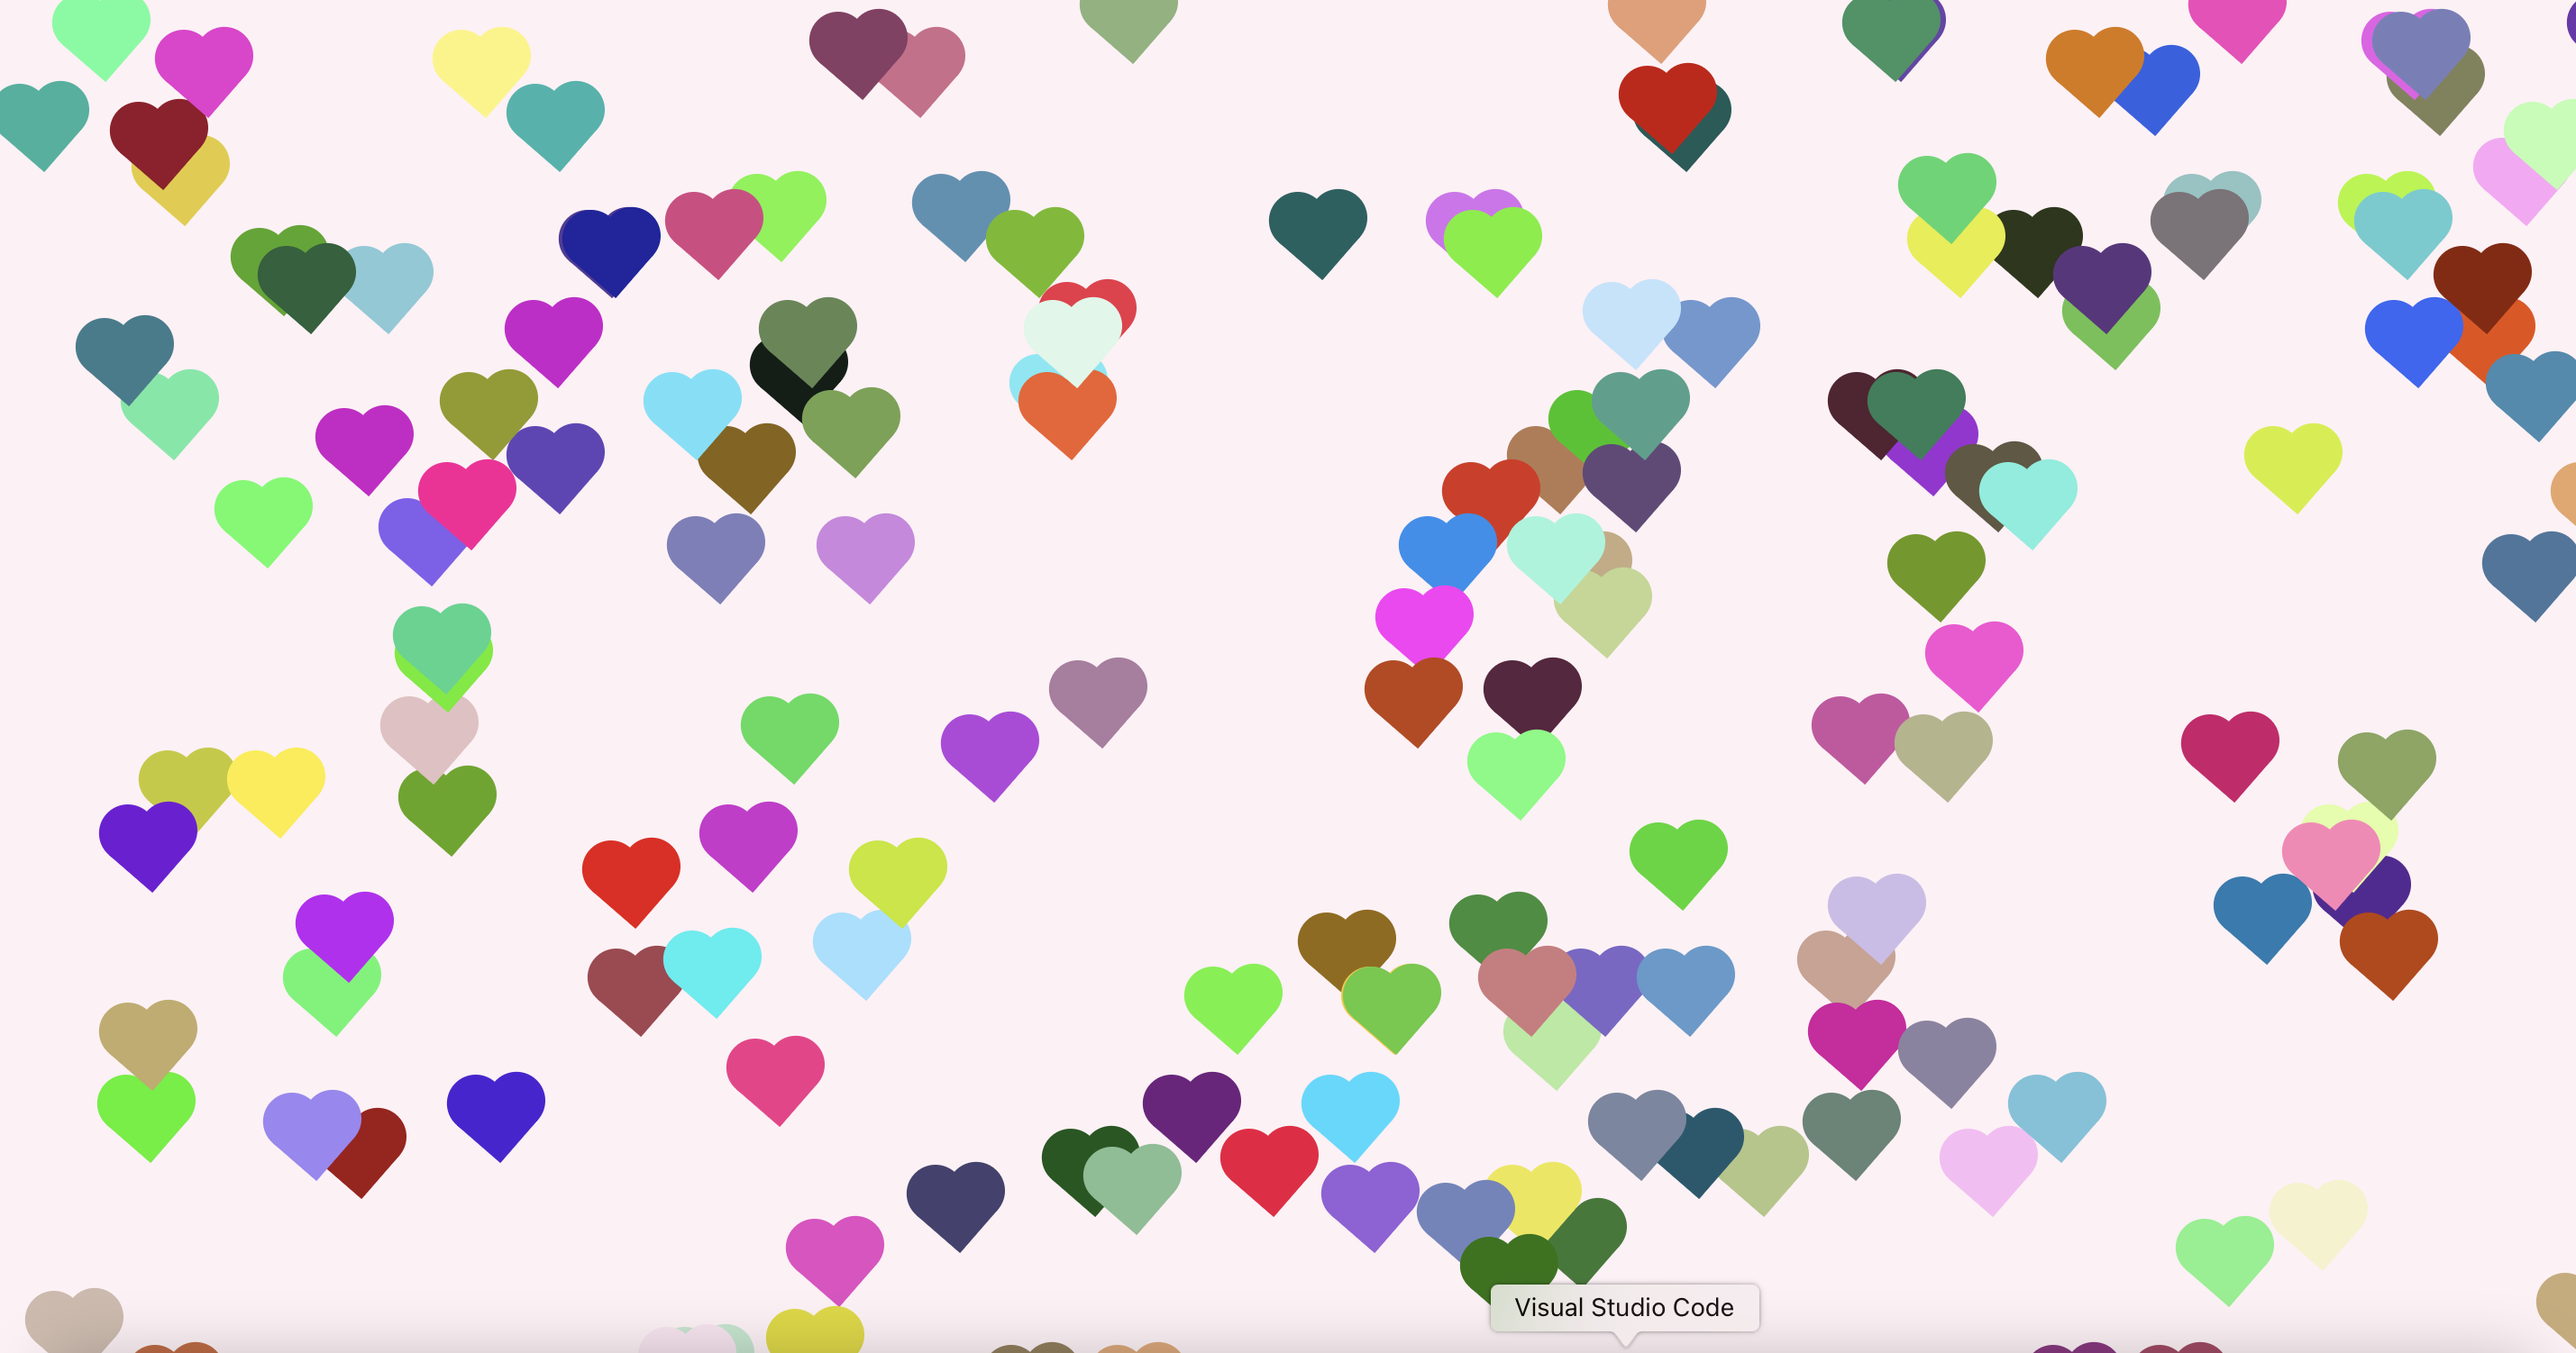
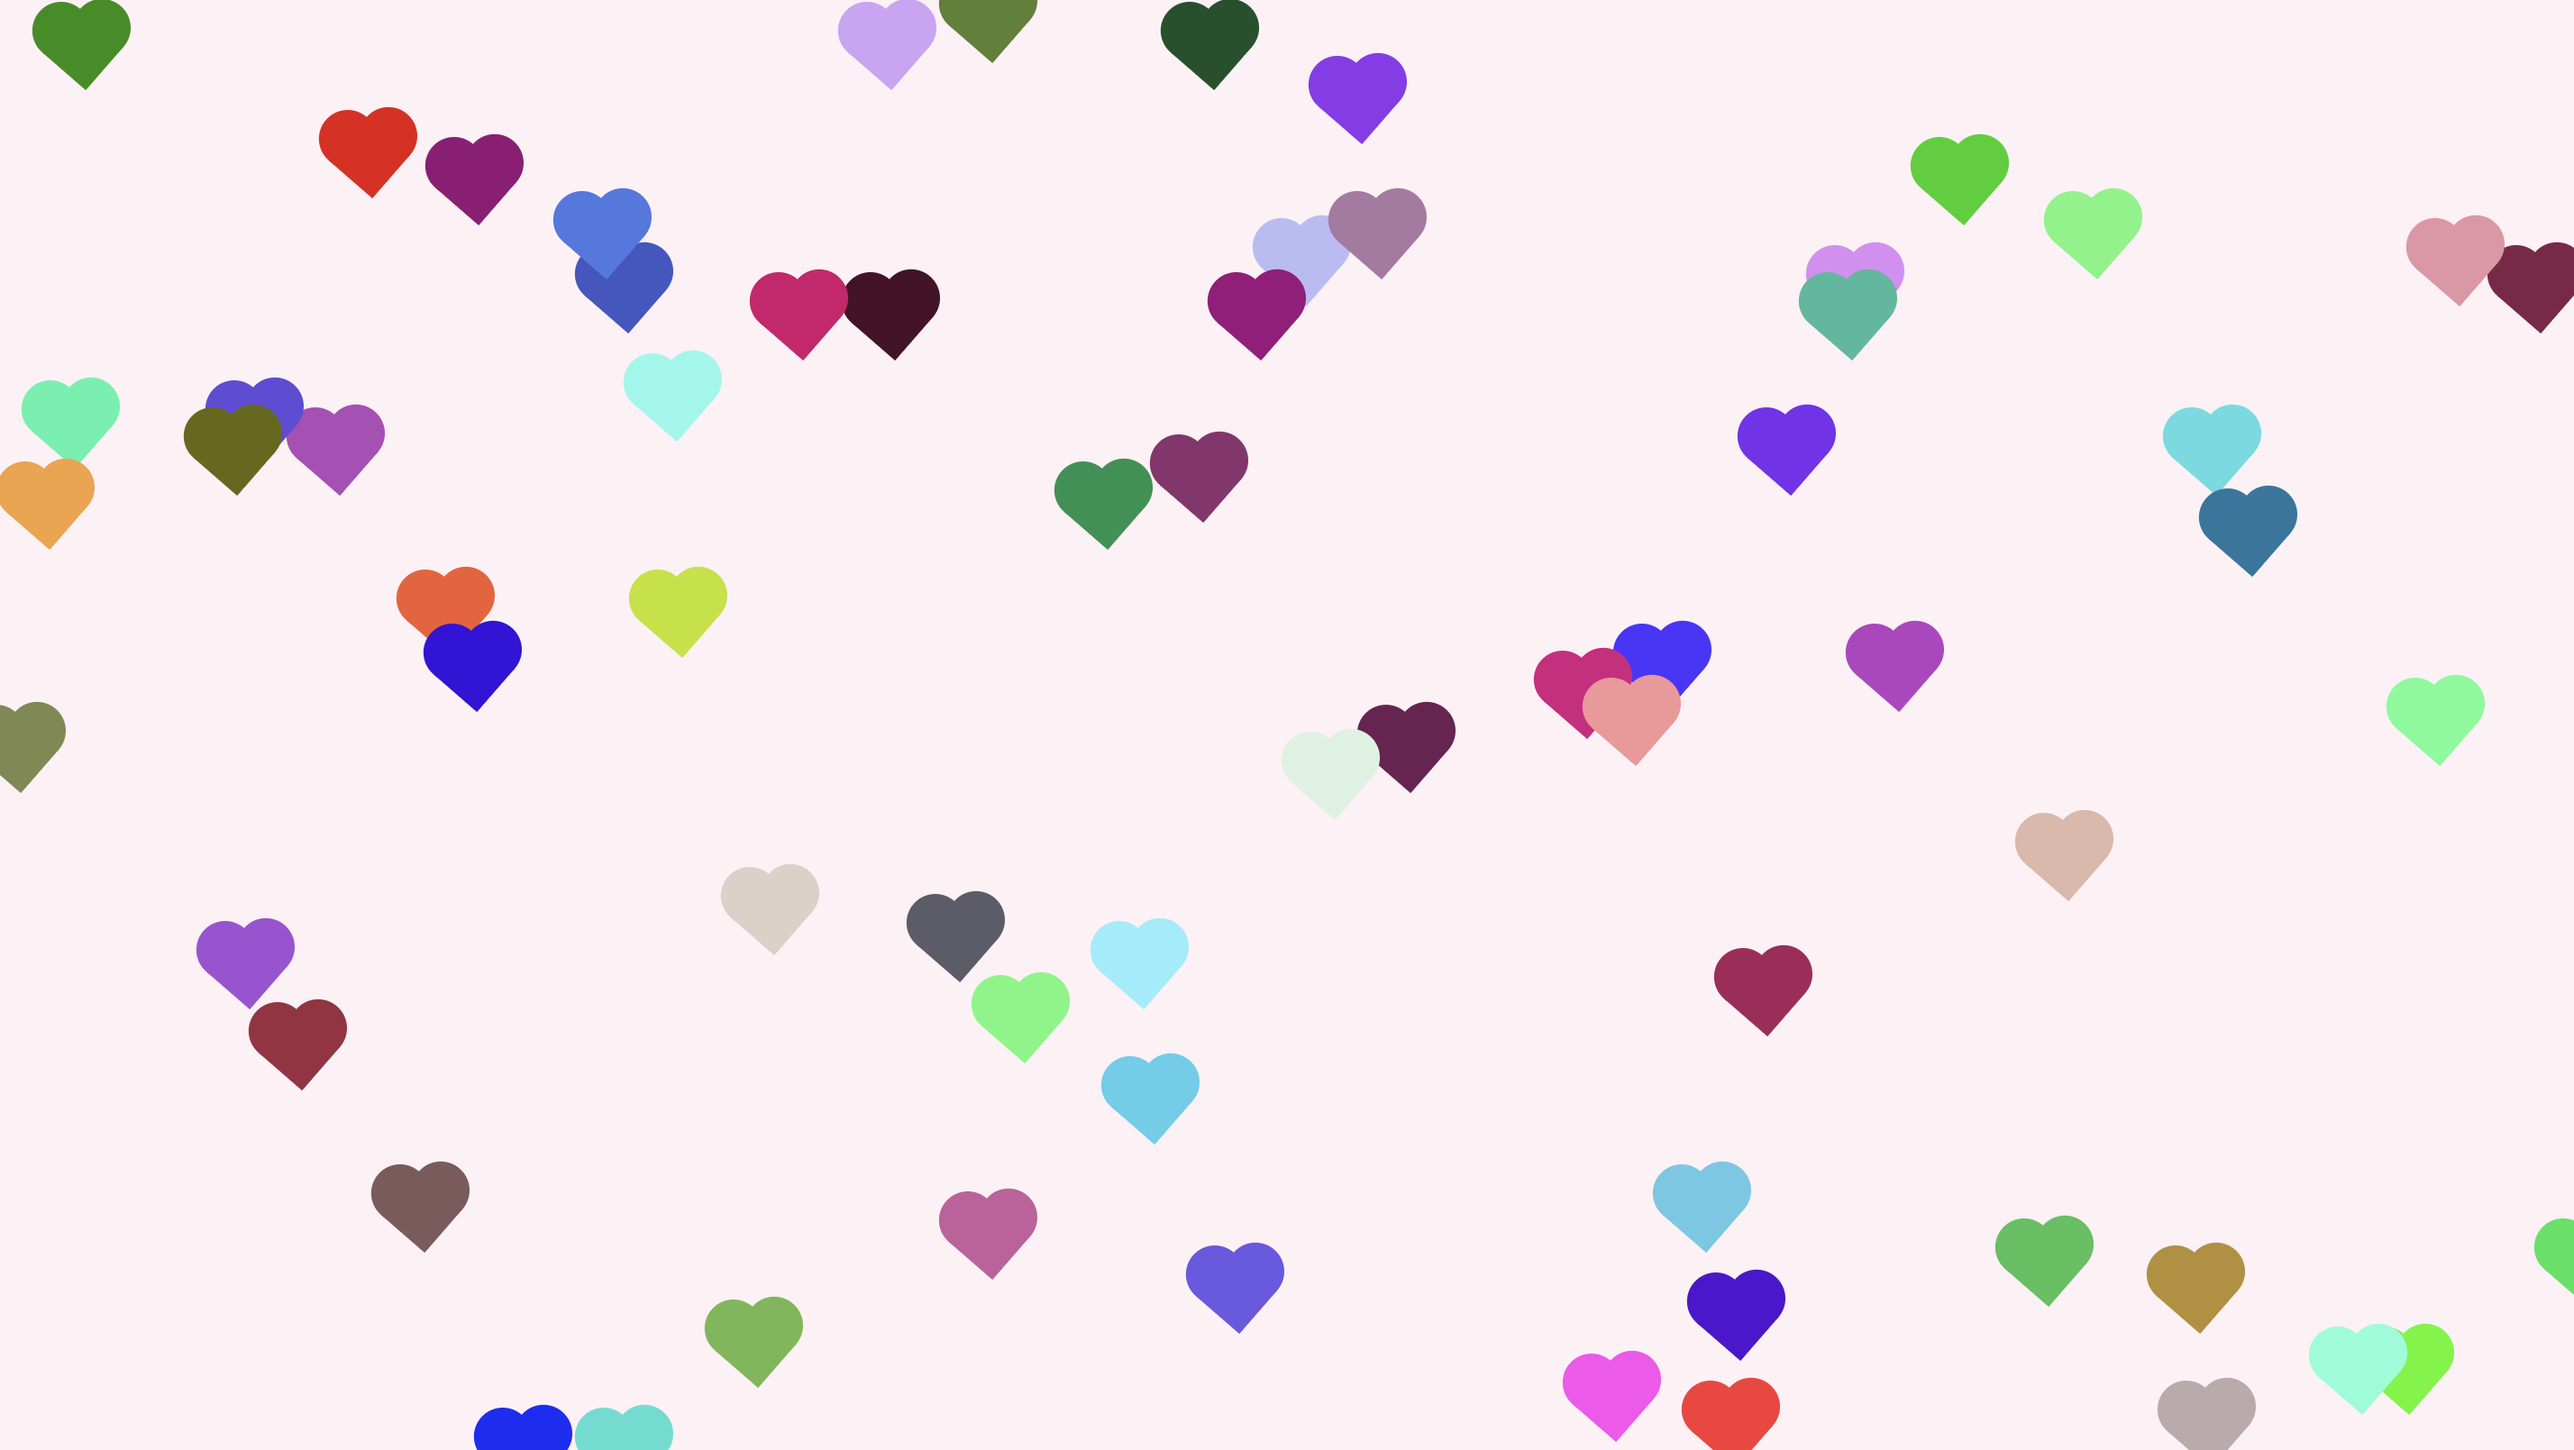
Add readme file

diff --git a/js/app.js b/js/app.js
@@ -18,7 +18,7 @@ class Heart {
 
         function move() {
             divElement.style.top = top + 'px'
-            top += 10
+            top += 15
             if (top >= window.innerHeight) {
                 clearInterval(timerId)
                 divElement.remove()
@@ -37,4 +37,4 @@ function addHeart() {
     console.log(newHeart)
     newHeart.drew()
 }
-setInterval(addHeart, 100)
+setInterval(addHeart, 200)

diff --git a/README.md b/README.md
@@ -1,2 +1,21 @@
 # js-css-html-falling-hearts
-Such lovely animation! Not only heart-warming, but letting practise JS objects, their classes, contructors, functions...How to not love coding? :)
+
+# 💗 Falling hearts 💗
+
+## 🥰 What's it about?
+
+Such a lovely animation! Not only heart-warming, but letting practise JS objects, their classes, contructors, functions...How to not love coding? :) 
+
+## 🥰 First look 
+For few seconds a screen is full of falling hearts 
+![first page](./img/screen_2.png)
+
+![secondt page](./img/screen_3.png)
+
+## 🥰 Technologies
+
++ mostly JavaScript!
+
+## 🥰 Inspiration
+This little project is part of an amazing Full Stack Developer Course created by  ♥ Ania Kubow ♥. Love this women, her sense of humor and ability to explain hard, code-things in a way that I finally understand. 🏆
+
